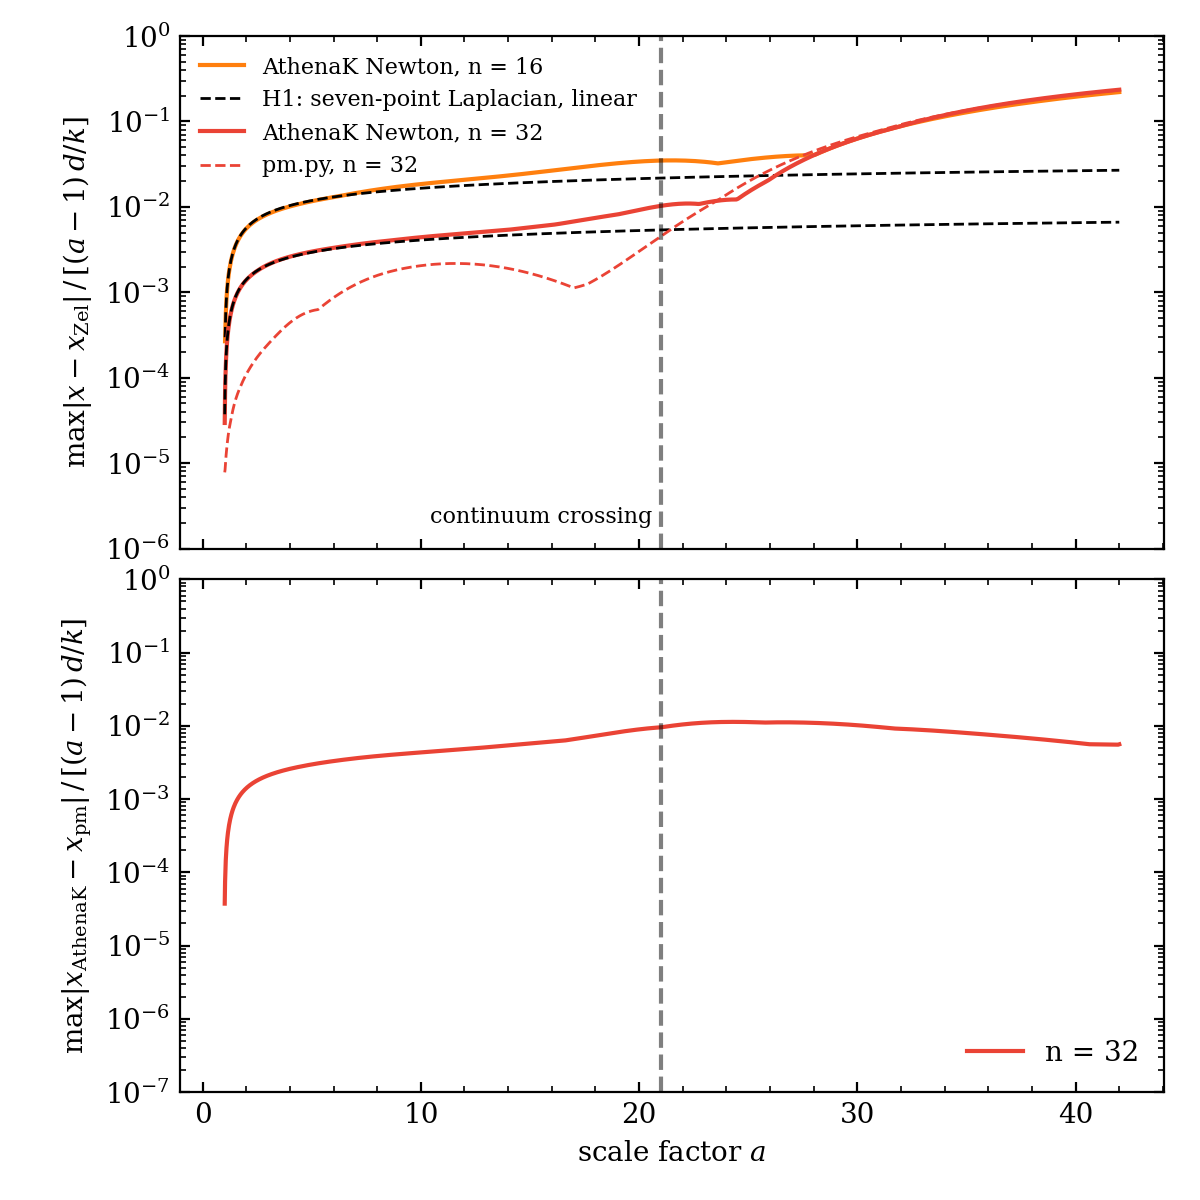
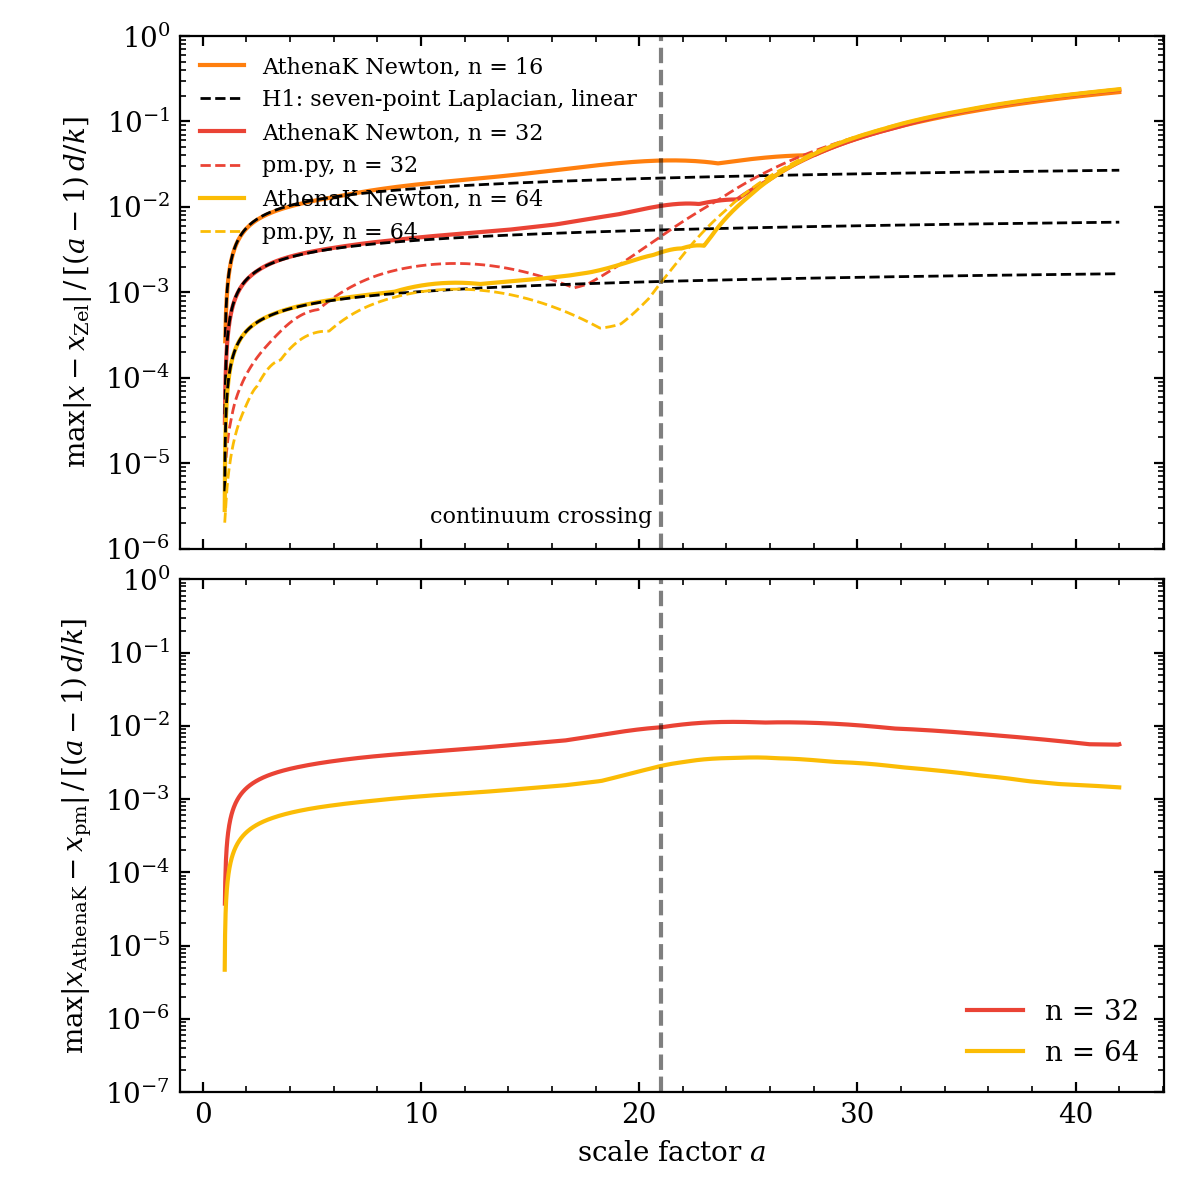
newton_tests: ellipsoid analysis drops the remainder-step record, compares averaged with averaged ODE, adds Richardson
Claude-Session: https://claude.ai/code/session_01VD79cUYemmpt27M8dtYPfW

diff --git a/tracks/B-emd-gw/newton_tests/scripts/analyze_ellipsoid.py b/tracks/B-emd-gw/newton_tests/scripts/analyze_ellipsoid.py
@@ -105,6 +105,14 @@ def diag(Q):
 def case_analysis(n, case):
     meta = json.load(open(os.path.join(case, "particles.json")))
     h = nw.read_newton_hst(os.path.join(case, "newton.newton.hst"))
+    # drop records after a step far below the nominal one (the driver ends on tlim with
+    # a remainder step of order 1e-13; the difference quotient d3I of that record is
+    # rounding divided by the step)
+    dtn = np.median(h["dt"][1:])
+    keep = np.ones(len(h["dt"]), bool)
+    keep[1:] = h["dt"][1:] > 0.5*dtn
+    ndrop = int((~keep).sum())
+    h = {k: v[keep] for k, v in h.items()}
     lam = np.array(meta["lam"])
     t0 = meta["t_turn"]
     M = meta["mass"]
@@ -113,8 +121,8 @@ def case_analysis(n, case):
     dt = float(np.median(np.diff(h["time"])))
     nhalf = int(round(0.5*WIN_FRAC*t0/dt))
     Q = [diag(nw.quadrupole(h, k)) for k in range(4)]
-    off = max(float(np.abs(nw.quadrupole(h, k)[:, i, j]).max()/np.abs(Q[k]).max())
-              for k in range(4) for i, j in ((0, 1), (0, 2), (1, 2)))
+    off = [max(float(np.abs(nw.quadrupole(h, k)[:, i, j]).max()/np.abs(Q[k]).max())
+               for i, j in ((0, 1), (0, 2), (1, 2))) for k in range(4)]
     R0, V0 = np.array(meta["R0"]), np.array(meta["V0"])
     I0 = np.array(meta["I0"])
     Reff = np.sqrt(5.0*np.diag(I0)/M)
@@ -123,7 +131,8 @@ def case_analysis(n, case):
     runs = {"nominal": ode(lam, t_end=t_end), "equivalent": ode(lam, Reff, Veff, t_end)}
     out = {"case": case, "n": n, "alpha": float(lam[0]), "t_turn": t0, "mass": M,
            "nparticle": meta["nparticle"], "dt": dt, "window": 2*nhalf*dt,
-           "R_equivalent_over_nominal": (Reff/R0).tolist(), "offdiag_max_rel": off}
+           "R_equivalent_over_nominal": (Reff/R0).tolist(), "offdiag_max_rel": off,
+           "records_dropped_short_step": ndrop}
     tx = t0 + zero_up(h["time"], h["dI_xx"])
     out["t_x"] = tx
     out["tau_x"] = tx/t0
@@ -206,7 +215,9 @@ def fig_quadrupole(S, out):
             axs[3].semilogy(s["t3"], s["Praw"], color=c, lw=0.4, alpha=0.5,
                             label="N = %d, raw" % n)
         m = s["t3"] <= s["tx"]
-        Ec = np.concatenate([[0.0], np.cumsum(0.5*(s["Ps"][m][1:] + s["Ps"][m][:-1])
+        # cumulative energy from the raw difference quotient (the fair comparison with
+        # the exact ODE; the averaging window biases the ODE itself, ellipsoid.json)
+        Ec = np.concatenate([[0.0], np.cumsum(0.5*(s["Praw"][m][1:] + s["Praw"][m][:-1])
                                               * np.diff(s["t3"][m]))])
         axs[4].plot(s["t3"][m], Ec/s["M"], color=c, lw=1.0)
         axs[4].plot([s["tx"]], [Ec[-1]/s["M"]], "o", color=c, ms=3)
@@ -236,8 +247,10 @@ def fig_quadrupole(S, out):
     axs[3].set_ylabel(r"$P = \dddot Q_{ij}\dddot Q_{ij}/5$")
     axs[4].set_ylabel(r"$E(t_{\rm turn}\to t)\,/\,M c^2$")
     axs[4].set_xlabel(r"$t / t_k$")
-    axs[0].legend(loc="lower left", ncol=2, fontsize=8)
+    axs[0].legend(loc="center left", ncol=2, fontsize=8)
     axs[3].legend(loc="upper left", ncol=2, fontsize=7)
+    axs[4].text(0.03, 0.85, "particles: raw difference quotient; ODE: exact",
+                transform=axs[4].transAxes, fontsize=8)
     axs[3].set_ylim(1e-6, 2e-3)
     axs[0].text(0.45, 0.55, "x solid, y dashed, z dotted", transform=axs[0].transAxes,
                 ha="left", fontsize=8)
@@ -253,21 +266,23 @@ def fig_convergence(rows, dtrow, out):
     for key, mk, lab in (("nominal", "s", "nominal ZA state"),
                          ("equivalent", "o", "equivalent ellipsoid of the lattice")):
         dtx = np.array([abs(rows[n]["ode"][key]["dt_x_rel"]) for n in ns])
-        dea = np.array([abs(rows[n]["ode"][key]["dE_avg_rel"]) for n in ns])
-        der = np.array([abs(rows[n]["ode"][key]["dE_raw_rel"]) for n in ns])
         axs[0].loglog(ns, dtx, mk + "-", color=fs.PAL["red"], label=lab, ms=4)
-        axs[1].loglog(ns, dea, mk + "-", color=fs.PAL["red"], ms=4,
-                      label="averaged, " + lab)
-        axs[1].loglog(ns, der, mk + ":", color=fs.PAL["orange"], ms=4,
-                      label="raw, " + lab)
+    o = "nominal"
+    series = (("dE_raw_rel", "o-", fs.PAL["red"], "raw $\\dddot Q$ vs ODE"),
+              ("dE_avg_vs_avg_ode_rel", "s-", fs.PAL["orange"],
+               "averaged vs averaged ODE"),
+              ("dE_avg_rel", "^:", fs.PAL["yellow"], "averaged vs ODE (as predicted)"))
+    for k, mk, c, lab in series:
+        y = np.array([abs(rows[n]["ode"][o][k]) for n in ns])
+        axs[1].loglog(ns, y, mk, color=c, ms=4, label=lab)
     if dtrow is not None:
         n, r = dtrow
         axs[0].loglog([n], [abs(r["ode"]["equivalent"]["dt_x_rel"])], "x", color="k",
                       label="step 0.01")
-        axs[1].loglog([n], [abs(r["ode"]["equivalent"]["dE_avg_rel"])], "x", color="k",
-                      label="step 0.01")
-    for ax, y0 in ((axs[0], abs(rows[ns[0]]["ode"]["equivalent"]["dt_x_rel"])),
-                   (axs[1], abs(rows[ns[0]]["ode"]["equivalent"]["dE_avg_rel"]))):
+        axs[1].loglog([n], [abs(r["ode"][o]["dE_raw_rel"])], "x", color="k",
+                      label="step 0.01 (raw)")
+    for ax, y0 in ((axs[0], abs(rows[ns[0]]["ode"]["nominal"]["dt_x_rel"])),
+                   (axs[1], abs(rows[ns[0]]["ode"][o]["dE_raw_rel"]))):
         nn = np.array([ns[0], ns[-1]], float)
         ax.loglog(nn, y0*(nn/nn[0])**-1, color="k", ls="--", lw=1.0)
         ax.loglog(nn, y0*(nn/nn[0])**-2, color="k", ls=":", lw=1.0)
@@ -398,6 +413,7 @@ def main():
             p = np.log2(abs((f1 - f2)/(f2 - f3)))
             conv[key] = {"values": [f1, f2, f3], "order": float(p),
                          "richardson": float(f3 + (f3 - f2)/(2.0**p - 1.0))}
+        conv["E_ode_avg_same_window_nominal"] = rows[n3]["ode"]["nominal"]["E_avg_same_window"]
         conv["E_ode_equivalent_finest"] = rows[n3]["ode"]["equivalent"]["E"]
         conv["E_ode_nominal"] = rows[n3]["ode"]["nominal"]["E"]
         conv["t_x_ode_nominal"] = rows[n3]["ode"]["nominal"]["t_x"]
